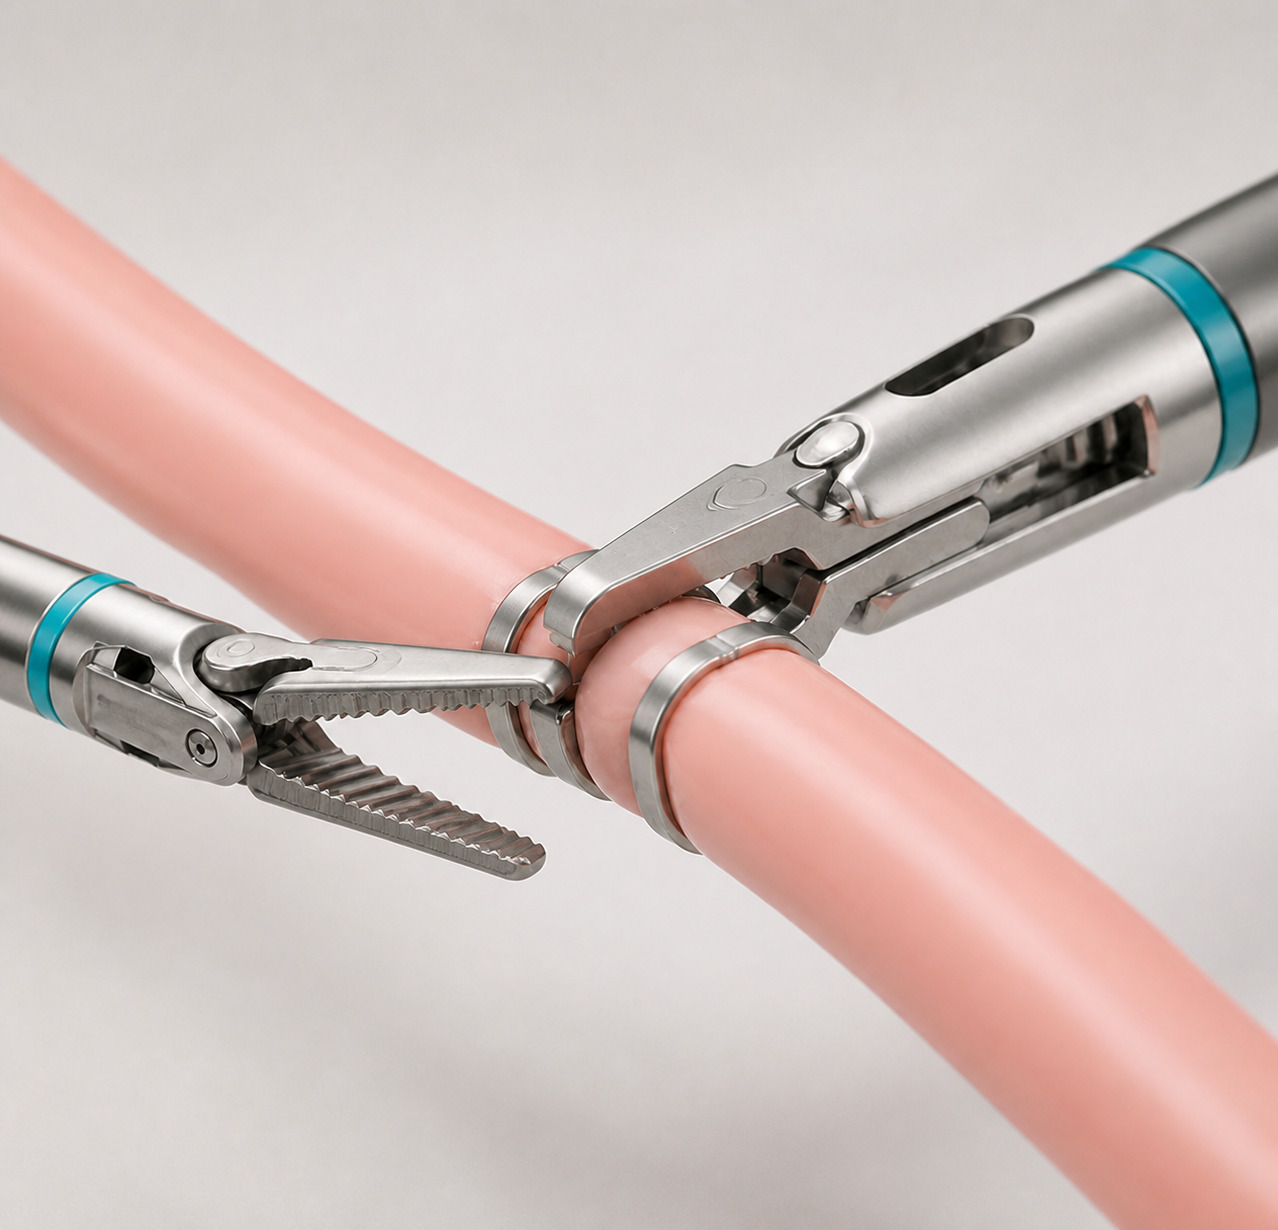
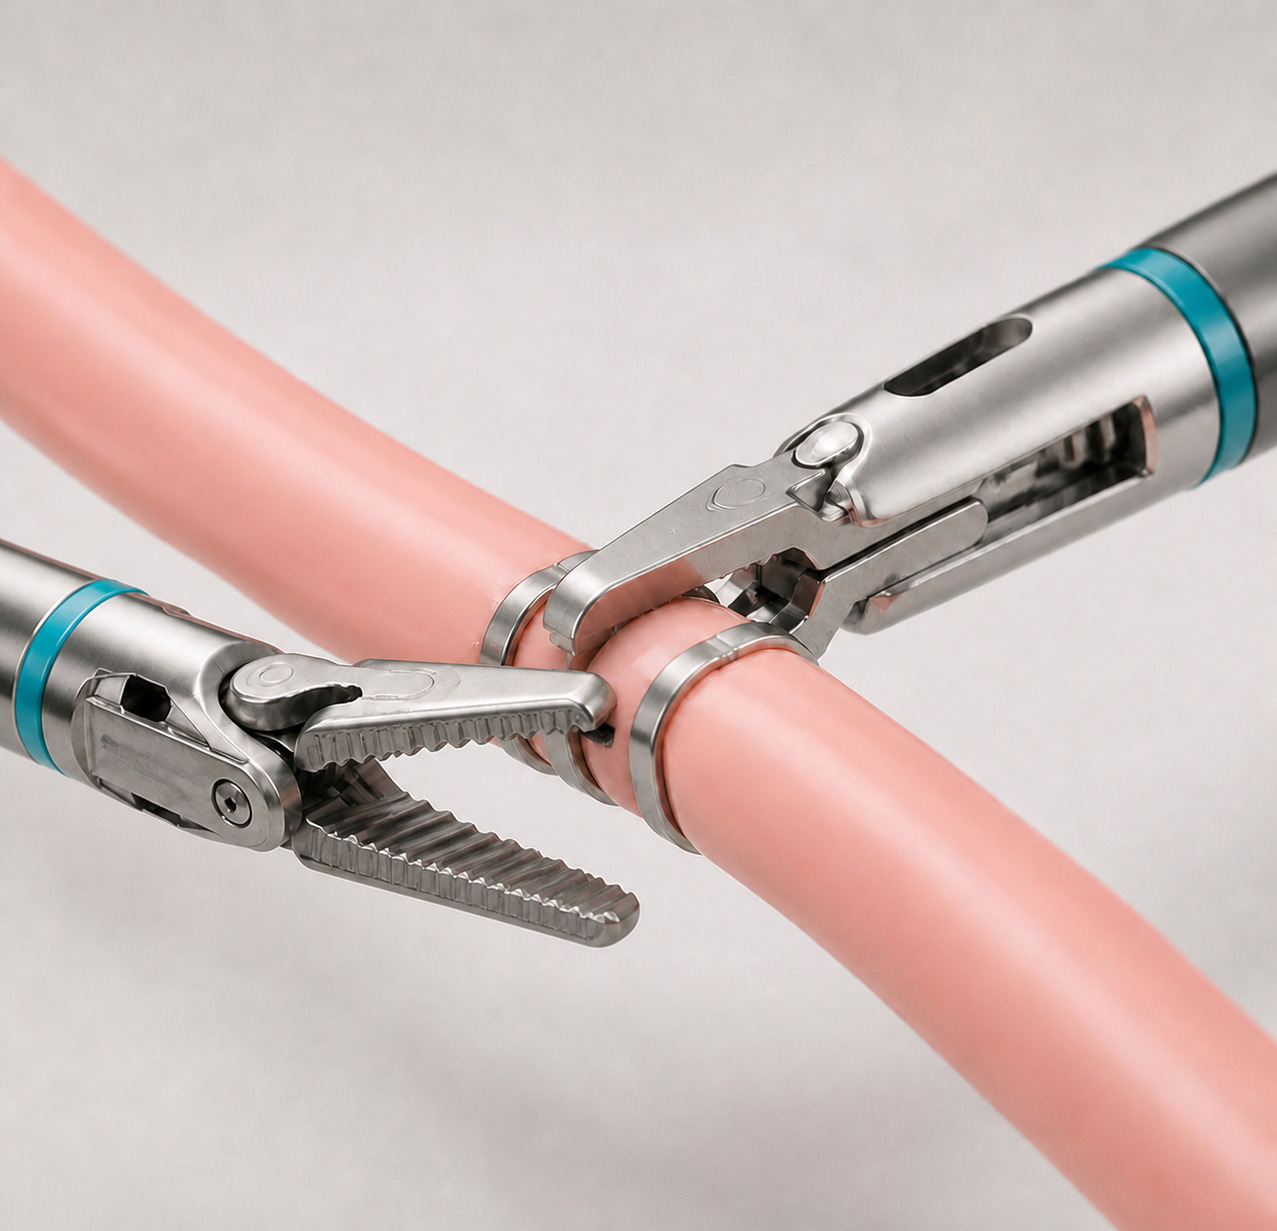
Balance internship instrument scale

diff --git a/index.html b/index.html
@@ -242,7 +242,7 @@
             <p class="stack publication-keywords" data-i18n="publications.internship.keywords">Surgical phase recognition · Robot-assisted surgery · Model compression · Monocular depth estimation</p>
             <figure class="paper-thumbnail internship-thumbnail">
               <img
-                src="./assets/internship-surgery-depth.jpg?v=3"
+                src="./assets/internship-surgery-depth.jpg?v=4"
                 alt="Combined non-graphic surgical grasper and clip-applier illustration beside the full repaired small-model depth prediction"
                 data-i18n-alt="publications.internship.imageAlt"
               />
